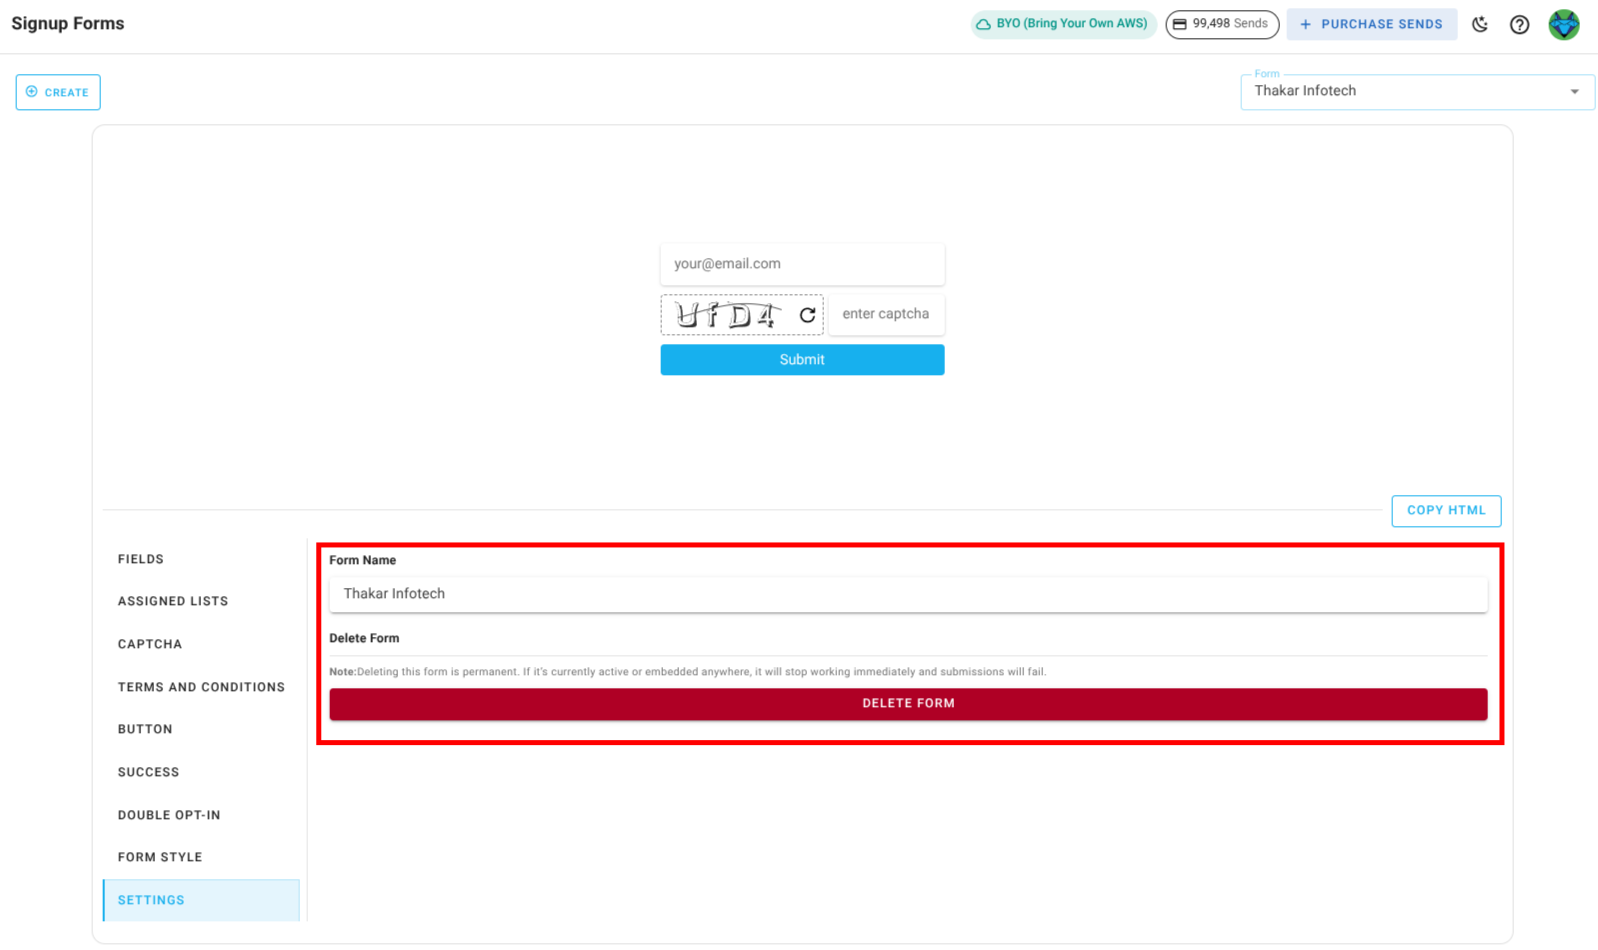
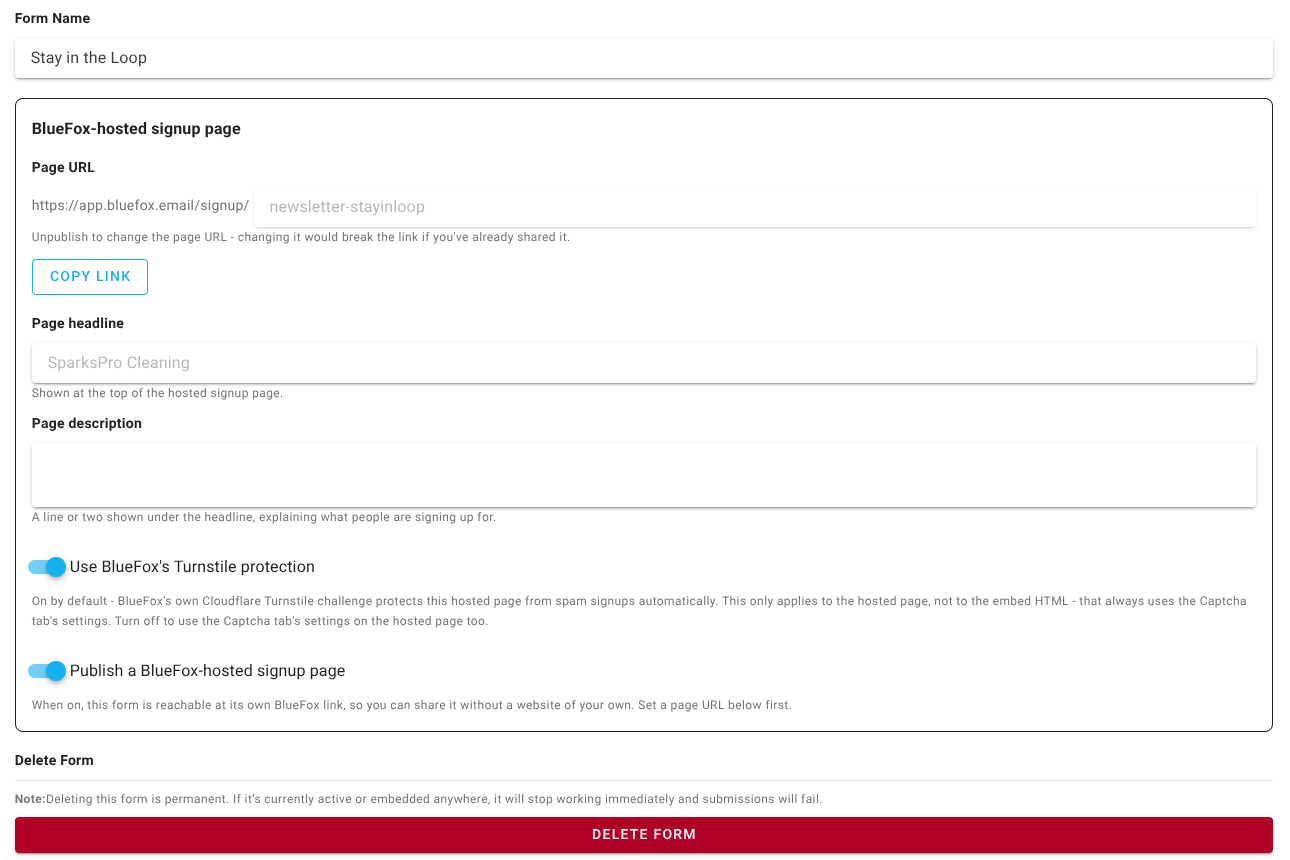
Add BlueFox-hosted signup page details and images to documentation

diff --git a/docs/projects/forms-and-pages.md b/docs/projects/forms-and-pages.md
@@ -8,6 +8,8 @@ faqs:
     answer: "Both links direct subscribers to the subscription preferences page. When a subscriber uses the unsubscribeLink, the full unsubscribe option is visible on the page. When they use the pauseSubscriptionLink, the unsubscribe option is hidden and only the pause option is shown. Using the pause link can significantly reduce permanent unsubscribes."
   - question: "Can I embed a sign-up form on my own website?"
     answer: "Yes. You can create a sign-up form in BlueFox Email, customize its fields, styling, and assigned subscriber lists, then copy the generated HTML code and paste it into your website. To ensure the form works correctly you must also whitelist your website domain in the project settings."
+  - question: "Can I share a sign-up form without having a website?"
+    answer: "Yes. Any sign-up form can be published as a BlueFox-hosted signup page with its own link. In the form's Settings, set a page URL, then turn on Publish a BlueFox-hosted signup page and share the link. The hosted page needs no domain whitelisting. You can also embed the form on your own website by copying the generated HTML."
   - question: "How does double opt-in work in BlueFox Email?"
     answer: "When double opt-in is enabled on a sign-up form, subscribers who submit the form receive a verification email containing a verifyLink merge tag before being added as active subscribers. You configure which transactional email is used for verification directly in the form's double opt-in settings."
   - question: "Can one sign-up form add subscribers to multiple lists at once?"
@@ -81,14 +83,19 @@ To manage the logo, click the **update logo** button on the subscription prefere
 
 ## Sign-Up Forms
 
-Sign-up forms are now separate entities that you can create, customize, and assign to one or multiple subscriber lists. This flexible approach allows you to design forms once and reuse them across different lists, or create specialized forms for specific audiences. Each form provides an easy way to customize the appearance, generate the necessary HTML code, and integrate it into external sites without the need for backend code.
+Sign-up forms are now separate entities that you can create, customize, and assign to one or multiple subscriber lists. This flexible approach allows you to design forms once and reuse them across different lists, or create specialized forms for specific audiences. Each form provides an easy way to customize the appearance, generate the necessary HTML code, and integrate it into external sites without the need for backend code. You can also publish a form as a [BlueFox-hosted signup page](#bluefox-hosted-signup-page) with its own link, so you can collect signups without a website of your own.
 
 ### How It Works
 
-Users can create multiple forms, customize each form through the interface, and assign them to one or more subscriber lists. Once configured, you can copy the generated HTML code and paste it into your website. When visitors enter their details and submit the form, they will be added to all the subscriber lists assigned to that form.
+Users can create multiple forms, customize each form through the interface, and assign them to one or more subscriber lists. Once configured, there are two ways to put a form in front of visitors:
+
+- **Embed it on your own website:** Copy the generated HTML code and paste it into your website, the traditional way.
+- **Share a BlueFox-hosted page:** Publish the form at its own BlueFox link and share that link. See [BlueFox-Hosted Signup Page](#bluefox-hosted-signup-page).
+
+Either way, when visitors enter their details and submit the form, they will be added to all the subscriber lists assigned to that form.
 
 ::: info Important Note:
-To ensure the form functions correctly on your website, you must [whitelist](/docs/projects/settings#domain-whitelist) your website domain. Navigate to Project Settings → Whitelist and add your domain to the whitelist.
+If you embed the form on your website, you must [whitelist](/docs/projects/settings#domain-whitelist) your website domain. Navigate to Project Settings → Whitelist and add your domain to the whitelist. A BlueFox-hosted signup page doesn't need this.
 ::: 
 
 ### Interface Overview
@@ -113,7 +120,7 @@ In each form you can:
 - **Success Message Customization**: Customize the message shown to subscribers after they successfully submit the form.
 - **Double Opt-In**: Configure double opt-in settings directly at the form level.
 - **Form Style Customization**: Choose how form fields are arranged (column or row) and customize font styles and colors.
-- **Settings**: Manage Form Name or Delete the form.
+- **Settings**: Manage the form name, publish a BlueFox-hosted signup page, or delete the form.
 
 ### Customization Options
 
@@ -241,6 +248,24 @@ You can configure double opt-in directly at the form level. When enabled, subscr
 #### 9. Settings
 
 - **Form Name:** Set or update the name of the form for easy identification.
-- **Delete Form:** Permanently delete the form from your project.
+- **BlueFox-hosted signup page:** Publish the form at its own BlueFox link. See [BlueFox-Hosted Signup Page](#bluefox-hosted-signup-page) below.
+- **Delete Form:** Permanently delete the form from your project. If the form is active or embedded anywhere, it stops working immediately and submissions fail.
 
 ![Screenshot of the subscriber lists sign-up page settings section](./project-subscriber-lists-sign-up-settings.webp)
+
+### BlueFox-Hosted Signup Page
+
+Besides embedding the HTML on your own site, you can publish a form as a page hosted by BlueFox Email. People sign up from a link you share, so you don't need a website of your own, and you don't need to whitelist a domain. The hosted page shows the form exactly as you configured it in the other tabs, including its fields, style, button and success message.
+
+![Example of a BlueFox-hosted signup page](./project-subscriber-lists-sign-up-hosted-page-example.webp)
+
+You set it up in the **Settings** tab of the form, in the **BlueFox-hosted signup page** card.
+
+![Screenshot of the BlueFox-hosted signup page settings](./project-subscriber-lists-sign-up-hosted-page.webp)
+
+- **Page URL:** The address of the page, `https://app.bluefox.email/signup/` followed by a name you choose. Use only letters, numbers and hyphens. A page URL is required before you can publish. While the page is published the URL is locked, because changing it would break links you've already shared. Unpublish the page first if you need to change it.
+- **Copy link:** Copies the page's link so you can share it.
+- **Page headline:** The headline shown at the top of the hosted page.
+- **Page description:** A line or two shown under the headline, explaining what people are signing up for.
+- **Use BlueFox's Turnstile protection:** On by default. BlueFox's own Cloudflare Turnstile challenge protects the hosted page from spam signups automatically. This only applies to the hosted page. The embed HTML always uses the settings in the [Captcha tab](#_3-captcha-customization). Turn it off to use the Captcha tab's settings on the hosted page as well.
+- **Publish a BlueFox-hosted signup page:** When on, the form is reachable at its own BlueFox link. This switch stays off until you have set a page URL.
